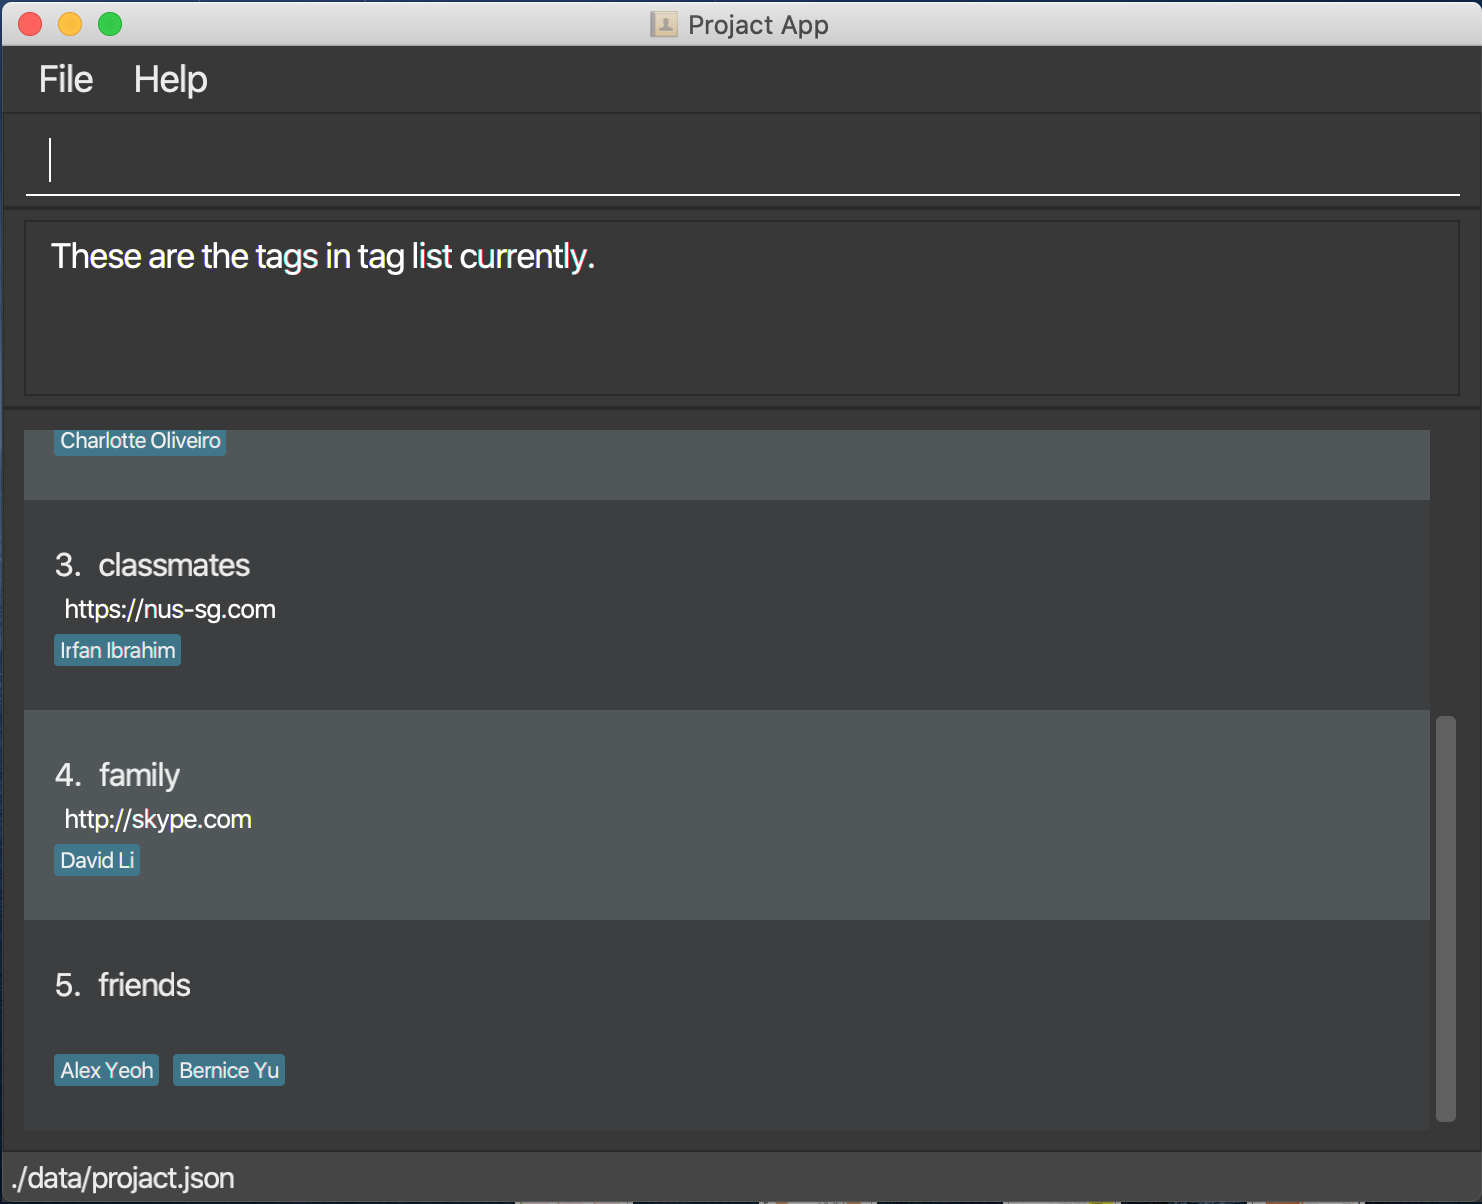
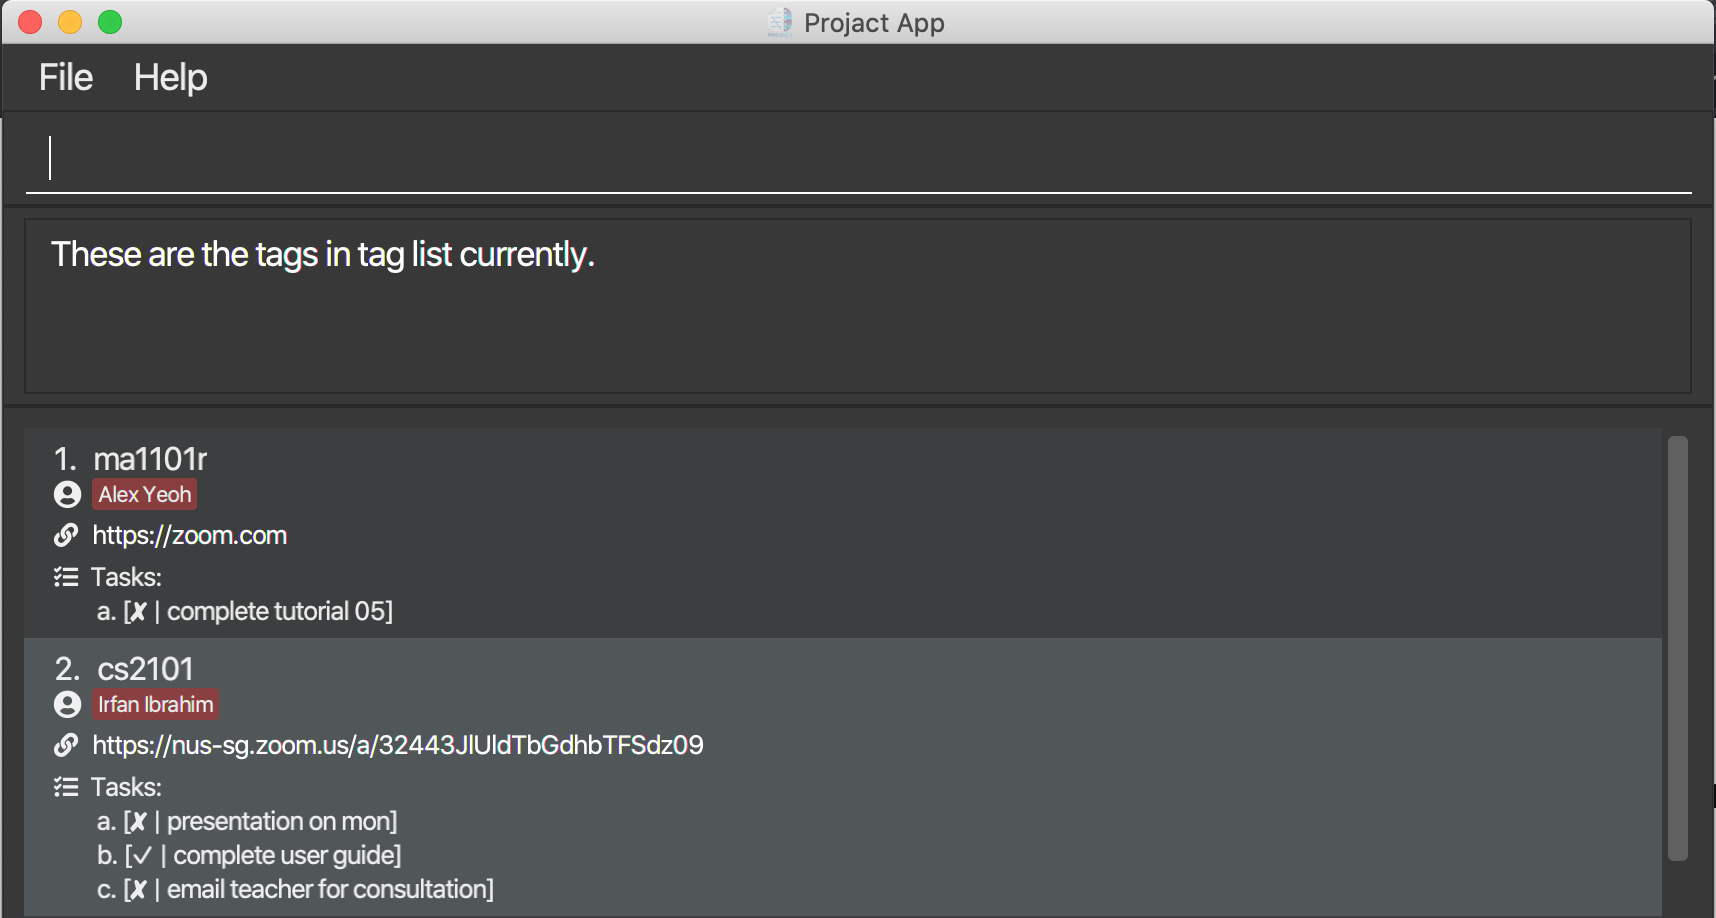
Update pictures to reflect new UI

diff --git a/docs/team/pockii.md b/docs/team/pockii.md
@@ -28,8 +28,8 @@ Given below are my contributions to the project.
 
 * **Enhancement**: Removed Address field in Person's model. (Pull request [\#68](https://github.com/AY2021S1-CS2103T-T17-4/tp/pull/68))
   * Justification: It is uncommon for target users to know or save their acquaintances' address.
-* **Enhancement**: Refined regex for valid emails. (Pull request [\#218](https://github.com/AY2021S1-CS2103T-T17-4/tp/pull/218))
 
+* **Enhancement**: Refined regex for valid emails. (Pull request [\#218](https://github.com/AY2021S1-CS2103T-T17-4/tp/pull/218))
 * **Enhancement**: Edited ModelManager and Tag's model to support new features. (Pull requests [\#109](https://github.com/AY2021S1-CS2103T-T17-4/tp/pull/109), [\#113](https://github.com/AY2021S1-CS2103T-T17-4/tp/pull/113))
   * Highlights: This enhancement affects existing contact, tag, link and task commands.
 
@@ -55,7 +55,7 @@ Given below are my contributions to the project.
     
 * **Developer Guide**:
     * Updated UML diagrams for Model and Storage. (Pull request [\#]())
-    * Added implementations and use cases of `tagedit` and `taskdone` feature. (Pull requests [\#146](https://github.com/AY2021S1-CS2103T-T17-4/tp/pull/146), [\#]())
+    * Added implementations and use cases of `tagedit` and `taskclear` feature. (Pull requests [\#146](https://github.com/AY2021S1-CS2103T-T17-4/tp/pull/146), [\#224](https://github.com/AY2021S1-CS2103T-T17-4/tp/pull/224), [\#]())
 
 #### Community    
 * PRs reviewed (with non-trivial review comments): (Pull request [\#69](https://github.com/AY2021S1-CS2103T-T17-4/tp/pull/69), [\#116](https://github.com/AY2021S1-CS2103T-T17-4/tp/pull/116), [\#118](https://github.com/AY2021S1-CS2103T-T17-4/tp/pull/118), [\#119](https://github.com/AY2021S1-CS2103T-T17-4/tp/pull/119), [\#139](https://github.com/AY2021S1-CS2103T-T17-4/tp/pull/139), [\#249](https://github.com/AY2021S1-CS2103T-T17-4/tp/pull/249))

diff --git a/docs/UserGuide.md b/docs/UserGuide.md
@@ -384,10 +384,10 @@ Made a mistake while adding tags? We got you! Here's a simple `tagedit` command 
 
 **Step-By-Step Guide:**
 
-Step 1: Key in `taglist` and hit enter to display all the tags. Then, scroll until you find the tag you want to edit.
+Step 1: Key in `taglist` and hit enter to display all the tags.
 ![TagEditCommand Step 1](images/TagEditCommandGuide1.png)
 
-Step 2: For example, if you want to change the name of the `family` tag to `brother`, then key in `tagedit 4 t/brother` and hit enter.
+Step 2: For example, if you want to change the name of the `ma1101r` tag to `ma1521`, then key in `tagedit 1 t/ma1521` and hit enter.
 ![TagEditCommand Step 2](images/TagEditCommandGuide2.png)
 
 Step 3: You should see the tag's name being edited. Everyone who had the old tag will also have it renamed.
